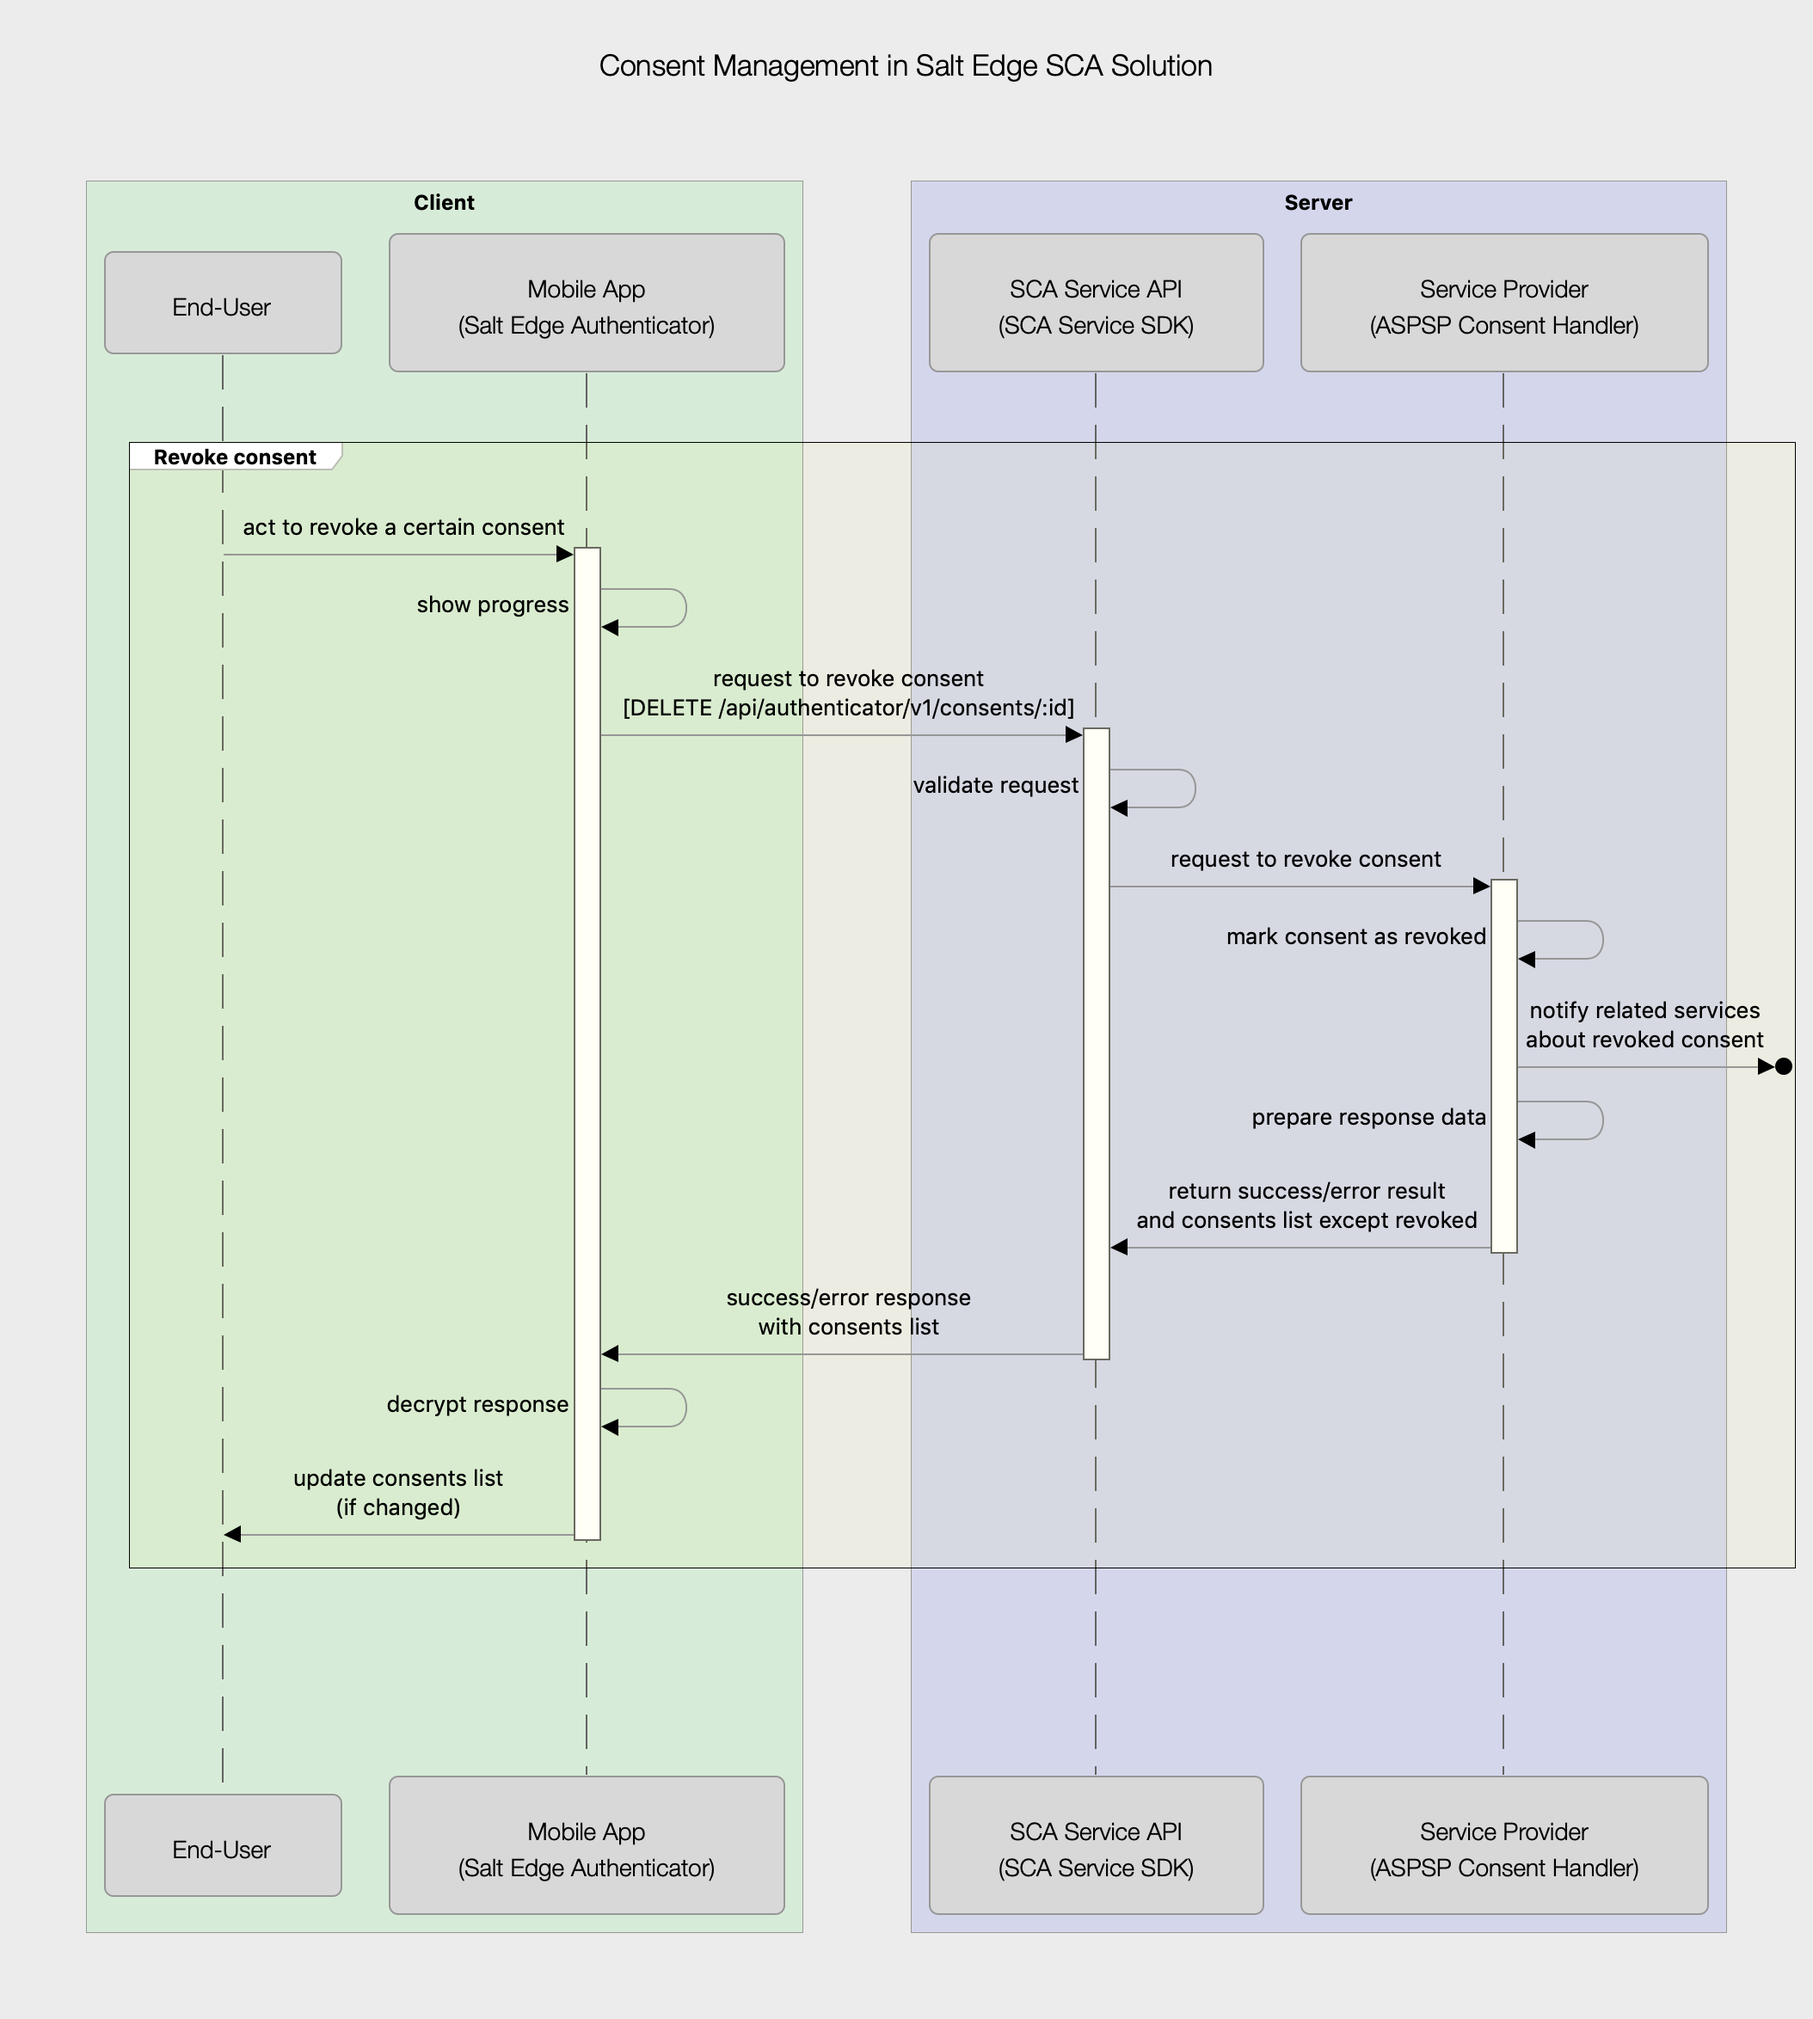
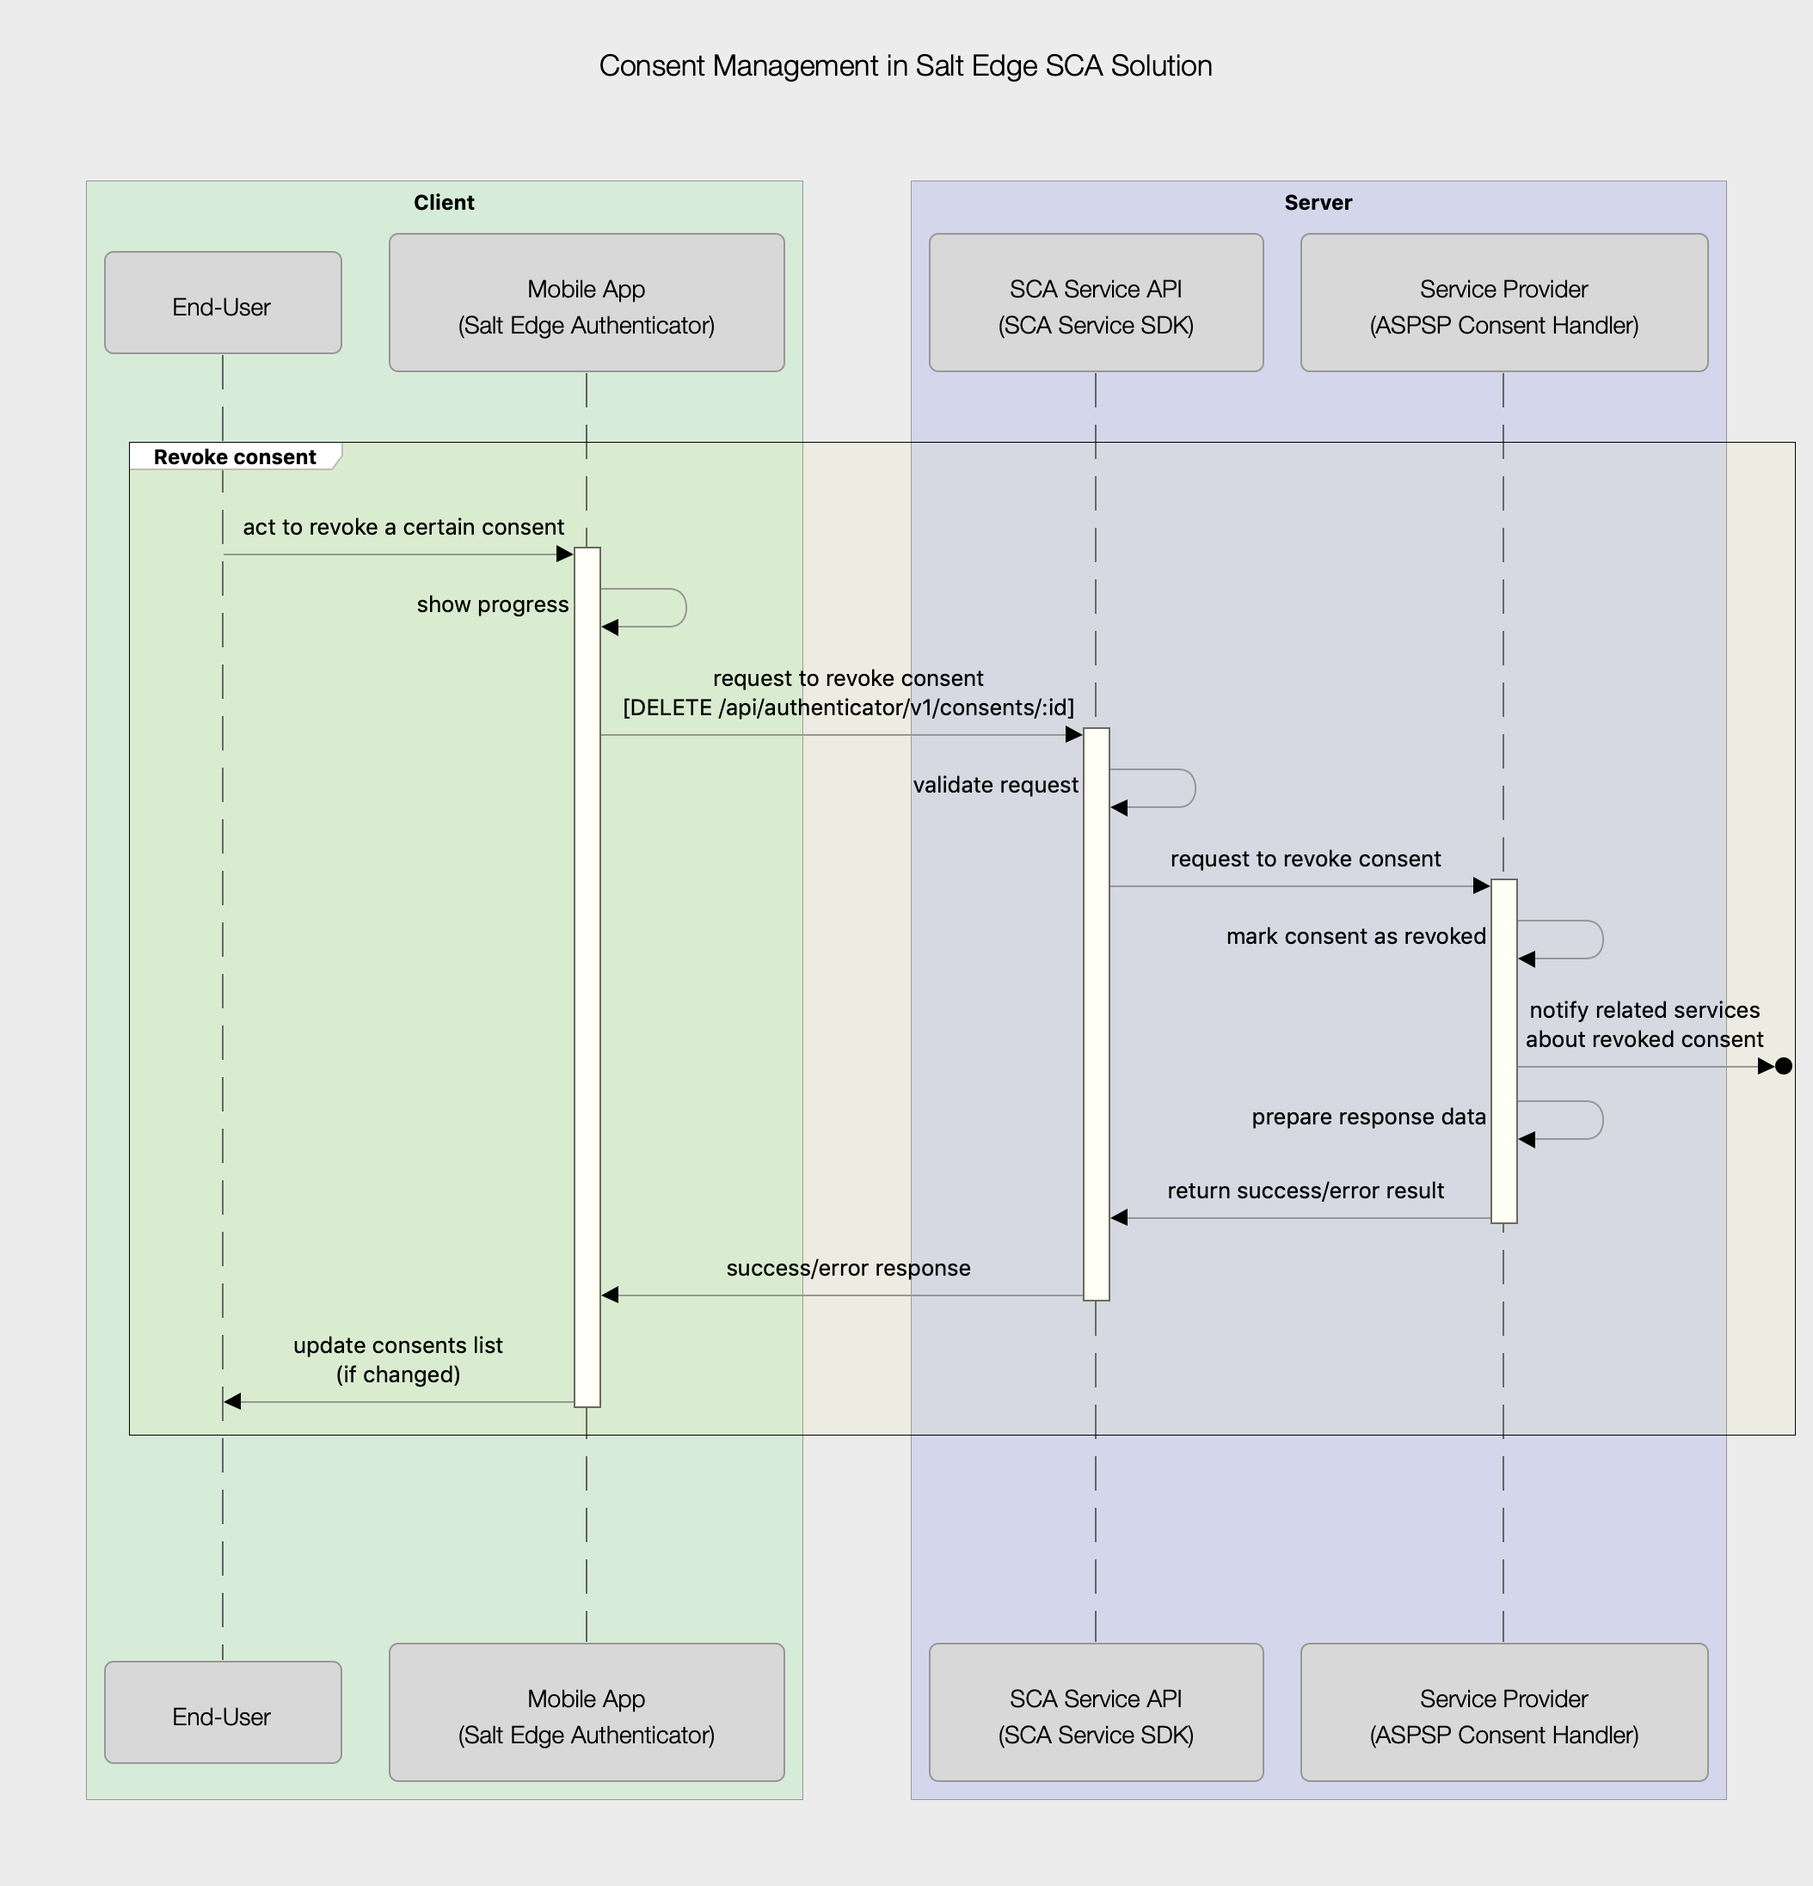
modified API doc

diff --git a/docs/IDENTITY_SERVICE_API.md b/docs/IDENTITY_SERVICE_API.md
@@ -715,10 +715,7 @@ curl \
 
 ### Revoke Consent  
 
-Revoke list of all active Consents managed by Service Provider (ASPSP).  
-And return list of all active Consents except previously revoked.
-
-Each Consent object (`data` field) is **encrypted** with algorithm mentioned in `algorithm` field. Necessary data for decryption (`key` and `iv`) are encrypted by asymmetric `public_key` related to `connection_id`.  
+Revoke Consent managed by Service Provider (ASPSP).  And return result of operation.
 
 <img src="images/sca_consent_management_revoke.png" alt="sca_consent_management_revoke" width="240"/>
 
@@ -744,53 +741,18 @@ curl \
 
 #### Response Body Parameters
 - `success` **[boolean]** - a result of revoke action;
-- `consents` **[array]** - a list of active consents;
-- `id` **[string]** - an unique ID of Consent object;
-- `connection_id` **[string]** - an unique ID of Mobile Client (Service Connection). Used to decrypt models in the Mobile Application;
-- `iv` **[string]** - an initialization vector of encryption algorithm, this string is encrypted with public key linked to Mobile Client;
-- `key` **[string]** - a secure key of encryption algorithm, this string is encrypted with public key linked to Mobile Client;
-- `algorithm` **[string]** - an encryption algorithm and block mode type;
-- `data` **[string]** - an encrypted Consent object with algorithm mentioned above.
+- `consent_id` **[string]** - an unique ID of revoked Consent model;
 
 #### Response Example
 ```json
 {
   "data": {
     "success": true,
-    "consents": [
-      {
-        "id": "556",
-        "connection_id": "333",
-        "iv": "o3TDCc3rKYTx...RVH+aOFpS9NIg==\n",
-        "key": "BtV7EB3Erv8xEQ.../jeBRyFa75A6po5XlwWiEiuzQ==\n",
-        "algorithm": "AES-256-CBC",
-        "data": "YlnrNOHvUIPem/O58rMzdsvkXidLvgGpdMalD9c1mlg=\n"
-      }
-    ]
+    "consent_id": "12"
   }
 }
 ```  
   
-#### Consent Object (*Decrypted `data` field*)  
-- `id` **[string]** - an unique ID of Consent model;
-- `connection_id` **[string]** - an unique ID of Mobile Client (Service Connection). Used to decrypt models in the Mobile Application;
-- `title` **[string]** - a human-readable title of Consent;
-- `description` **[string]** - a description of Consent. Can be as human-readable plain text, or HTML encoded page;
-- `created_at` **[datetime]** - specifies the datetime in ISO 8601 (“yyyy-mm-ddTHH:mm:ssZ”) format, when the Consent was created;
-- `expires_at` **[datetime]** - specifies the datetime in ISO 8601 (“yyyy-mm-ddTHH:mm:ssZ”) format, when the Consent should expire.
-
-#### Consent Object Example (*Decrypted `data` field*)  
-```json
-{
-  "id": "444",
-  "connection_id": "333",
-  "title": "Access Account information",
-  "description": "Access Account information of GB123456789 in Universal Bank",
-  "created_at": "2017-09-22T08:29:03Z",
-  "expires_at": "2017-09-22T08:34:03Z"
-}
-```
-
 **Note:**  
 **[See Response Errors](#api-errors)**
 
